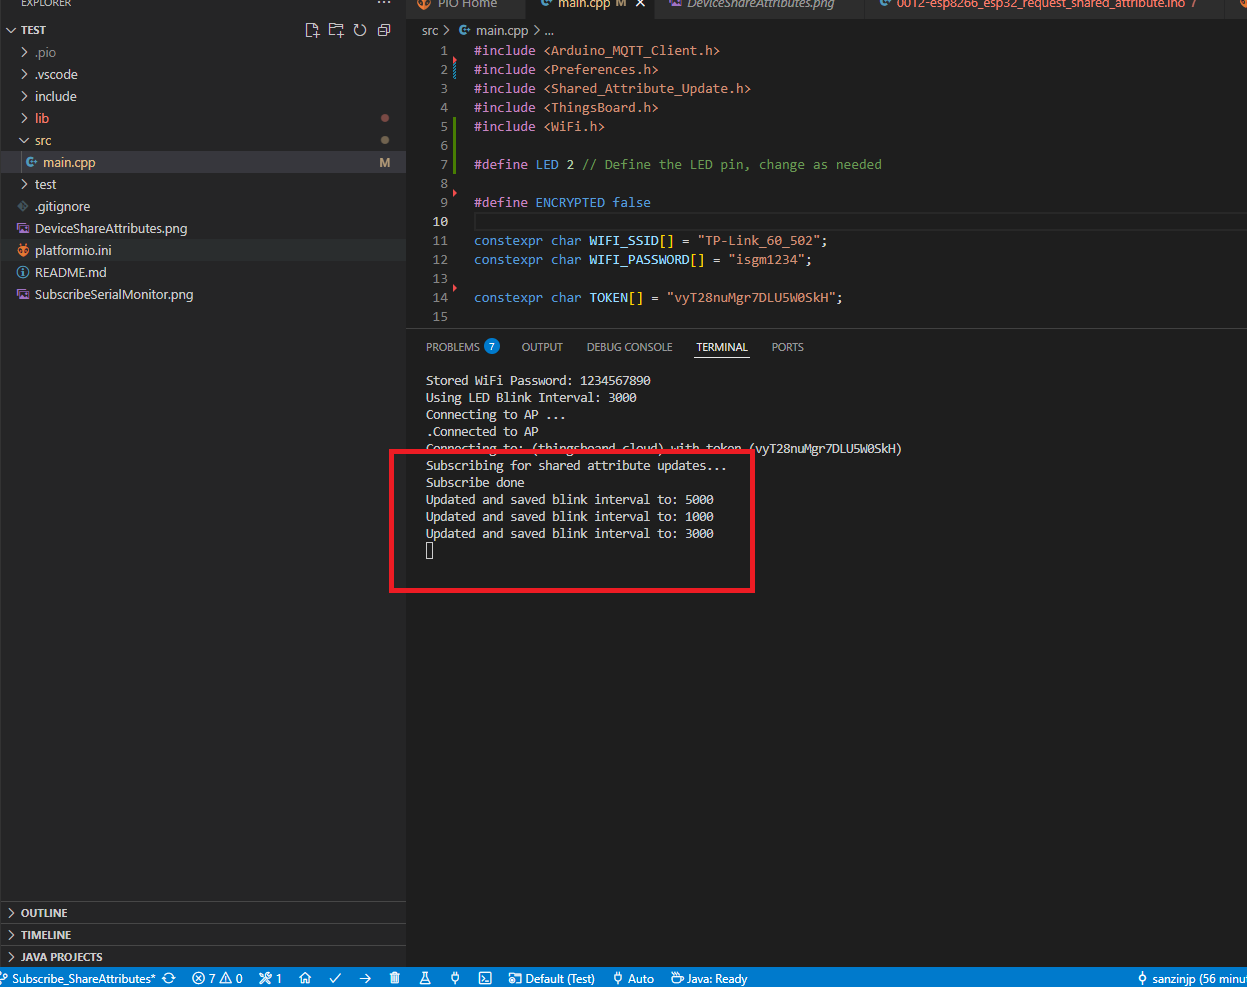
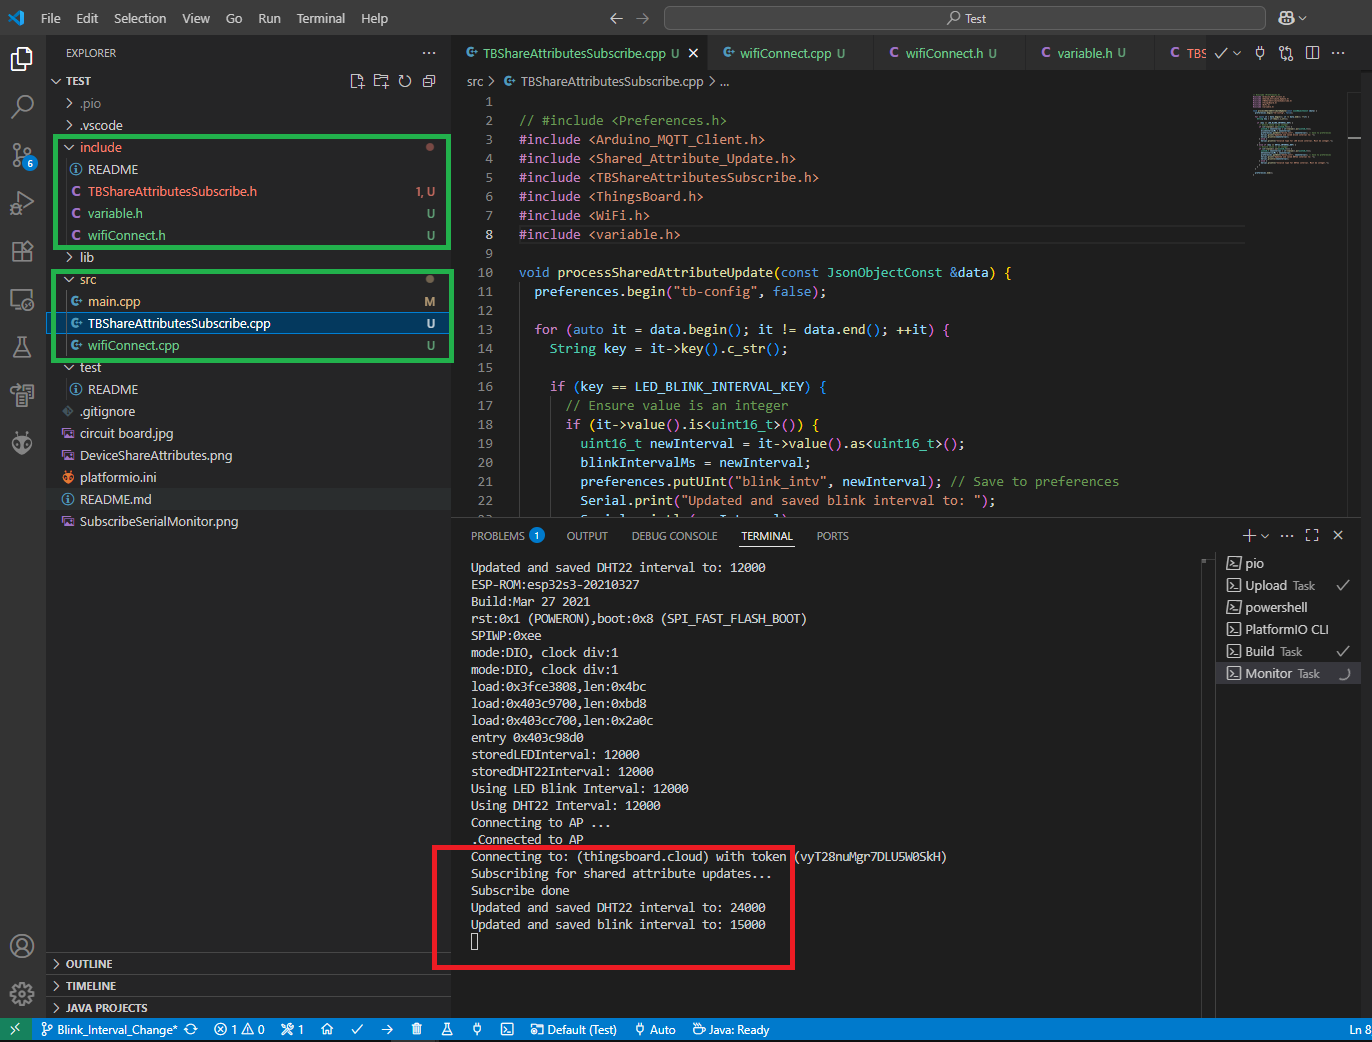
dht22_setInterval

diff --git a/src/main.cpp b/src/main.cpp
@@ -1,39 +1,16 @@
+#include <Adafruit_Sensor.h>
 #include <Arduino_MQTT_Client.h>
-#include <Preferences.h>
+#include <DHT.h>
 #include <Shared_Attribute_Update.h>
+#include <TBShareAttributesSubscribe.h>
 #include <ThingsBoard.h>
 #include <WiFi.h>
-
-#define LED 2 // Define the LED pin, change as needed
+#include <variable.h>
+#include <wifiConnect.h>
 
 #define ENCRYPTED false
 
-constexpr char WIFI_SSID[] = "TP-Link_60_502";
-constexpr char WIFI_PASSWORD[] = "isgm1234";
-
-constexpr char TOKEN[] = "vyT28nuMgr7DLU5W0SkH";
-
-// Thingsboard we want to establish a connection too
-constexpr char THINGSBOARD_SERVER[] = "thingsboard.cloud";
-
-#if ENCRYPTED
-constexpr uint16_t THINGSBOARD_PORT = 8883U;
-#else
-constexpr uint16_t THINGSBOARD_PORT = 1883U;
-#endif
-
-constexpr uint16_t MAX_MESSAGE_SEND_SIZE = 128U;
-constexpr uint16_t MAX_MESSAGE_RECEIVE_SIZE = 128U;
-
-constexpr uint32_t SERIAL_DEBUG_BAUD = 115200U;
-
-constexpr size_t MAX_ATTRIBUTES = 6U;
-
-constexpr char CONNECTING_MSG[] = "Connecting to: (%s) with token (%s)\n";
-char constexpr WIFI_USERNAME_KEY[] = "wifi_username_key";
-char constexpr WIFI_PASSWORD_KEY[] = "wifi_password_key";
-constexpr char LED_BLINK_INTERVAL_KEY[] = "led_blink_interval";
-uint16_t blinkIntervalMs = 500; // default value
+DHT dht(DHTPIN, DHTTYPE);
 
 // Initialize underlying client, used to establish a connection
 #if ENCRYPTED
@@ -42,8 +19,11 @@ WiFiClientSecure espClient;
 WiFiClient espClient;
 #endif
 
+uint16_t blinkIntervalMs = 1000;  // default value in milliseconds
+uint16_t dht22IntervalMs = 60000; // default value in milliseconds
+
 Preferences preferences;
-// Initalize the Mqtt client instance
+//  Initalize the Mqtt client instance
 Arduino_MQTT_Client mqttClient(espClient);
 // Initialize used apis
 Shared_Attribute_Update<1U, MAX_ATTRIBUTES> shared_update;
@@ -55,98 +35,45 @@ ThingsBoard tb(mqttClient, MAX_MESSAGE_RECEIVE_SIZE, MAX_MESSAGE_SEND_SIZE,
 // Statuses for subscribing to shared attributes
 bool subscribed = false;
 
-void InitWiFi() {
-  Serial.println("Connecting to AP ...");
-  // Attempting to establish a connection to the given WiFi network
-  WiFi.begin(WIFI_SSID, WIFI_PASSWORD);
-  while (WiFi.status() != WL_CONNECTED) {
-    // Delay 500ms until a connection has been successfully established
-    delay(500);
-    Serial.print(".");
-  }
-  Serial.println("Connected to AP");
-#if ENCRYPTED
-  espClient.setCACert(ROOT_CERT);
-#endif
-}
-
-bool reconnect() {
-  // Check to ensure we aren't connected yet
-  const wl_status_t status = WiFi.status();
-  if (status == WL_CONNECTED) {
-    return true;
-  }
-
-  // If we aren't establish a new connection to the given WiFi network
-  InitWiFi();
-  return true;
-}
-
-void processSharedAttributeUpdate(const JsonObjectConst &data) {
-  preferences.begin("tb-config", false);
-
-  for (auto it = data.begin(); it != data.end(); ++it) {
-    String key = it->key().c_str();
-
-    if (key == LED_BLINK_INTERVAL_KEY) {
-      // Ensure value is an integer
-      if (it->value().is<uint16_t>()) {
-        uint16_t newInterval = it->value().as<uint16_t>();
-        blinkIntervalMs = newInterval;
-        preferences.putUInt("blink_intv", newInterval); // Save to preferences
-        Serial.print("Updated and saved blink interval to: ");
-        Serial.println(newInterval);
-      } else {
-        Serial.println("Invalid type for LED blink interval. Must be integer.");
-      }
-    } else if (key == WIFI_USERNAME_KEY) {
-      preferences.putString("wifi_user", it->value().as<String>());
-      Serial.println("Saved wifi_user");
-    } else if (key == WIFI_PASSWORD_KEY) {
-      preferences.putString("wifi_pass", it->value().as<String>());
-      Serial.println("Saved wifi_pass");
-    }
-  }
-
-  preferences.end();
-}
-
 void setup() {
   pinMode(LED, OUTPUT);
+  dht.begin();
   Serial.begin(SERIAL_DEBUG_BAUD);
   delay(1000);
 
   preferences.begin("tb-config", true); // read-only
-  String wifiUserName = preferences.getString("wifi_user", "none");
-  String wifiPass = preferences.getString("wifi_pass", "none");
 
   // Load blinkInterval only if it was previously saved (non-zero)
-  uint16_t storedInterval = preferences.getUInt("blink_intv", 0);
-  Serial.print("storedInterval: ");
-  Serial.println(storedInterval);
+  uint16_t storedLEDInterval = preferences.getUInt("blink_intv", 0);
+  Serial.print("storedLEDInterval: ");
+  Serial.println(storedLEDInterval);
 
-  if (storedInterval != 0) {
-    blinkIntervalMs = storedInterval;
-  } else {
-    blinkIntervalMs = 500;
+  if (storedLEDInterval != 0) {
+    blinkIntervalMs = storedLEDInterval;
+  }
+
+  uint16_t storedDHT22Interval = preferences.getUInt("dht22_intv", 0);
+  Serial.print("storedDHT22Interval: ");
+  Serial.println(storedDHT22Interval);
+
+  if (storedDHT22Interval != 0) {
+    dht22IntervalMs = storedDHT22Interval;
   }
 
   preferences.end();
-
-  Serial.print("Stored WiFi Username: ");
-  Serial.println(wifiUserName);
-  Serial.print("Stored WiFi Password: ");
-  Serial.println(wifiPass);
   Serial.print("Using LED Blink Interval: ");
   Serial.println(blinkIntervalMs);
+  Serial.print("Using DHT22 Interval: ");
+  Serial.println(dht22IntervalMs);
 
   InitWiFi();
 }
 
-unsigned long lastBlink = 0;
+unsigned long lastBlink, lastDHT22Read = 0;
 bool ledState = false;
 
 void loop() {
+
   if (!reconnect()) {
     return;
   }
@@ -165,8 +92,8 @@ void loop() {
     Serial.println("Subscribing for shared attribute updates...");
     // Shared attributes we want to request from the server
     constexpr std::array<const char *, MAX_ATTRIBUTES>
-        SUBSCRIBED_SHARED_ATTRIBUTES = {WIFI_USERNAME_KEY, WIFI_PASSWORD_KEY,
-                                        LED_BLINK_INTERVAL_KEY};
+        SUBSCRIBED_SHARED_ATTRIBUTES = {LED_BLINK_INTERVAL_KEY,
+                                        DHT22_INTERVAL_KEY};
 
     const Shared_Attribute_Callback<MAX_ATTRIBUTES> callback(
         &processSharedAttributeUpdate, SUBSCRIBED_SHARED_ATTRIBUTES);
@@ -184,5 +111,12 @@ void loop() {
     lastBlink = millis();
     ledState = !ledState;
     digitalWrite(LED, ledState);
+  }
+  if (millis() - lastDHT22Read > dht22IntervalMs) {
+    lastDHT22Read = millis();
+    float humidity = dht.readHumidity();
+    float temperature = dht.readTemperature();
+    tb.sendTelemetryData("humidity", humidity);
+    tb.sendTelemetryData("temperature", temperature);
   }
 }

diff --git a/include/variable.h b/include/variable.h
@@ -1,0 +1,53 @@
+#include <Arduino.h>
+#include <Preferences.h>
+
+// Pin definitions
+#define LED 2         // Onboard or external LED pin
+#define DHTPIN 21     // GPIO pin connected to the DHT sensor
+#define DHTTYPE DHT22 // Type of DHT sensor used
+
+// Global variables (declared elsewhere and defined in one .cpp file)
+extern Preferences preferences; // NVS (EEPROM-like) storage handler
+
+// WiFi credentials
+constexpr char WIFI_SSID[] = "TP-Link_60_502"; // Replace with your actual SSID
+constexpr char WIFI_PASSWORD[] =
+    "isgm1234"; // Replace with your actual password
+
+// Token used to authenticate with ThingsBoard
+constexpr char TOKEN[] = "vyT28nuMgr7DLU5W0SkH";
+
+// ThingsBoard server address
+constexpr char THINGSBOARD_SERVER[] = "thingsboard.cloud";
+
+// MQTT port configuration (depending on encryption setting)
+#if ENCRYPTED
+constexpr uint16_t THINGSBOARD_PORT = 8883U; // MQTT over TLS
+#else
+constexpr uint16_t THINGSBOARD_PORT = 1883U; // Plain MQTT
+#endif
+
+// MQTT message buffer sizes
+constexpr uint16_t MAX_MESSAGE_SEND_SIZE = 128U;
+constexpr uint16_t MAX_MESSAGE_RECEIVE_SIZE = 128U;
+
+// Serial port baud rate for debugging output
+constexpr uint32_t SERIAL_DEBUG_BAUD = 115200U;
+
+// Maximum number of shared attributes expected from ThingsBoard
+constexpr size_t MAX_ATTRIBUTES = 3U;
+
+// Logging message format for ThingsBoard connection
+constexpr char CONNECTING_MSG[] = "Connecting to: (%s) with token (%s)\n";
+
+// Attribute keys for shared attribute updates from ThingsBoard
+constexpr char LED_BLINK_INTERVAL_KEY[] =
+    "led_blink_interval"; // Key to update LED blink rate
+constexpr char DHT22_INTERVAL_KEY[] =
+    "dht22_interval"; // Key to update DHT22 telemetry interval
+
+// Shared variables that are updated at runtime via shared attribute
+// subscription
+extern uint16_t blinkIntervalMs; // LED blinking interval (milliseconds)
+extern uint16_t
+    dht22IntervalMs; // DHT22 telemetry sending interval (milliseconds)

diff --git a/src/TBShareAttributesSubscribe.cpp b/src/TBShareAttributesSubscribe.cpp
@@ -1,0 +1,42 @@
+
+// #include <Preferences.h>
+#include <Arduino_MQTT_Client.h>
+#include <Shared_Attribute_Update.h>
+#include <TBShareAttributesSubscribe.h>
+#include <ThingsBoard.h>
+#include <WiFi.h>
+#include <variable.h>
+
+void processSharedAttributeUpdate(const JsonObjectConst &data) {
+  preferences.begin("tb-config", false);
+
+  for (auto it = data.begin(); it != data.end(); ++it) {
+    String key = it->key().c_str();
+
+    if (key == LED_BLINK_INTERVAL_KEY) {
+      // Ensure value is an integer
+      if (it->value().is<uint16_t>()) {
+        uint16_t newInterval = it->value().as<uint16_t>();
+        blinkIntervalMs = newInterval;
+        preferences.putUInt("blink_intv", newInterval); // Save to preferences
+        Serial.print("Updated and saved blink interval to: ");
+        Serial.println(newInterval);
+      } else {
+        Serial.println("Invalid type for LED blink interval. Must be integer.");
+      }
+    } else if (key == DHT22_INTERVAL_KEY) {
+      // Ensure value is an integer
+      if (it->value().is<uint16_t>()) {
+        uint16_t newInterval = it->value().as<uint16_t>();
+        dht22IntervalMs = newInterval;
+        preferences.putUInt("dht22_intv", newInterval); // Save to preferences
+        Serial.print("Updated and saved DHT22 interval to: ");
+        Serial.println(newInterval);
+      } else {
+        Serial.println("Invalid type for DHT22 interval. Must be integer.");
+      }
+    }
+  }
+
+  preferences.end();
+}

diff --git a/src/wifiConnect.cpp b/src/wifiConnect.cpp
@@ -1,0 +1,30 @@
+#include <WiFi.h>
+#include <variable.h>
+#include <wifiConnect.h>
+
+void InitWiFi() {
+  Serial.println("Connecting to AP ...");
+  // Attempting to establish a connection to the given WiFi network
+  WiFi.begin(WIFI_SSID, WIFI_PASSWORD);
+  while (WiFi.status() != WL_CONNECTED) {
+    // Delay 500ms until a connection has been successfully established
+    delay(500);
+    Serial.print(".");
+  }
+  Serial.println("Connected to AP");
+#if ENCRYPTED
+  espClient.setCACert(ROOT_CERT);
+#endif
+}
+
+bool reconnect() {
+  // Check to ensure we aren't connected yet
+  const wl_status_t status = WiFi.status();
+  if (status == WL_CONNECTED) {
+    return true;
+  }
+
+  // If we aren't establish a new connection to the given WiFi network
+  InitWiFi();
+  return true;
+}

diff --git a/include/TBShareAttributesSubscribe.h b/include/TBShareAttributesSubscribe.h
@@ -1,0 +1,6 @@
+#ifndef TB_SHARE_ATT_H
+#define TB_SHARE_ATT_H
+
+void processSharedAttributeUpdate(const JsonObjectConst &data);
+
+#endif // TB_SHARE_ATT_H

diff --git a/include/wifiConnect.h b/include/wifiConnect.h
@@ -1,0 +1,7 @@
+#ifndef WIFI_CONNECT_H
+#define WIFI_CONNECT_H
+
+void InitWiFi();
+bool reconnect();
+
+#endif
